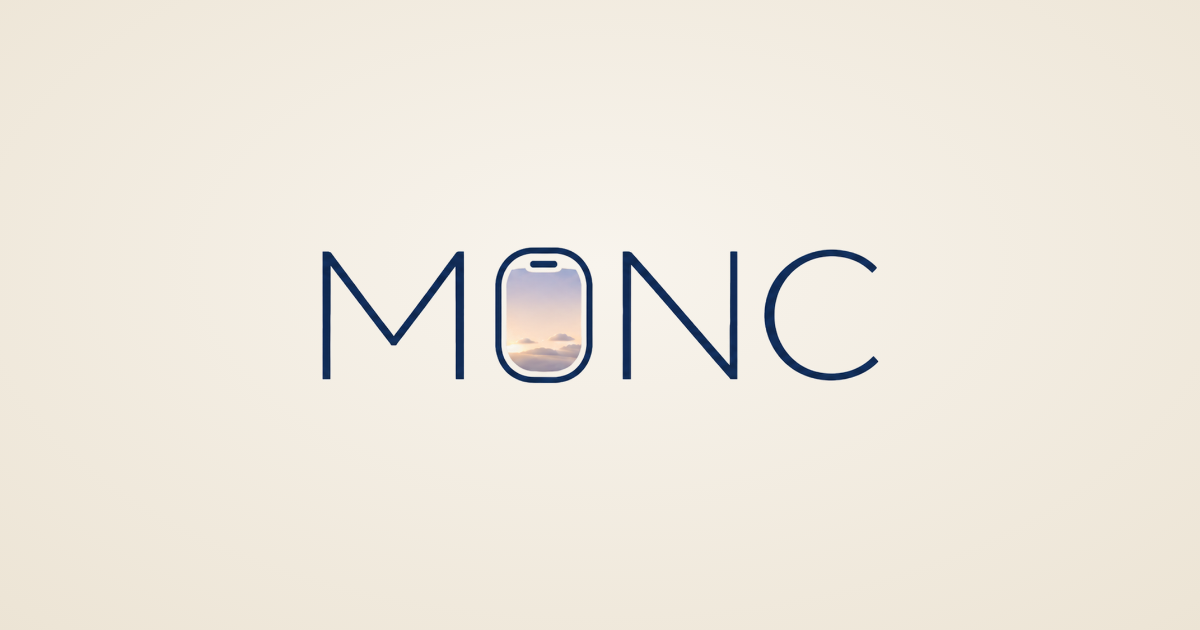
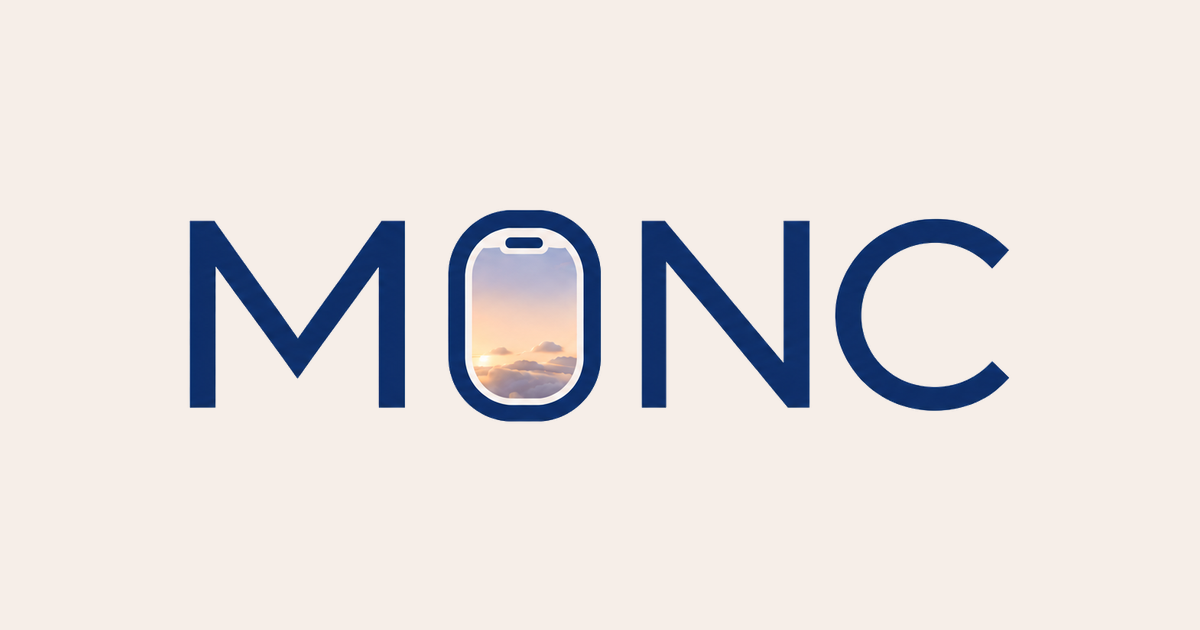
feat(브랜드): 로고 풀패키지(MONC_Logo_Full_Package)로 전면 교체 — 굵은 신규 워드마크
오너가 올린 완성 브랜드킷으로 사이트 전체 재교체. 직전 임시 워드마크가
'획이 얇아 이상하다'는 피드백 → 신규는 굵고 또렷한 MONC(O=노을 창문).

- 워드마크(네비·푸터·회원카드): assets/web/monc-logo-transparent-640.webp (13KB)
- 파비콘 15p: 패키지 favicon 세트 + mask-icon(safari-pinned-tab) + theme-color(#102B56)
  + 패키지 site.webmanifest(192/512/maskable) — 오너 favicon-head 스니펫 방식 그대로
- OG 공유 카드: 완성본 monc-og-image-1200x630.png로 교체(직접 생성본 폐기)
- 대체된 임시 images/MONC_logo_package/ 및 루트 site.webmanifest 제거

Claude-Session: https://claude.ai/code/session_017DQZQdJTuHGXiTtHNJVSGg

Changed region(s): [[0.1542, 0.3317, 0.8633, 0.6937]]

diff --git a/apply.html b/apply.html
@@ -15,11 +15,13 @@
 </script>
 <meta name="description" content="MONC 2주 면접 챌린지 — 원하는 챌린지를 골라 담고 한 번에 신청하세요.">
 <!-- 파비콘 -->
-<link rel="icon" href="images/MONC_logo_package/favicon.ico" sizes="any">
-<link rel="icon" type="image/png" sizes="16x16" href="images/MONC_logo_package/favicon-16x16.png">
-<link rel="icon" type="image/png" sizes="32x32" href="images/MONC_logo_package/favicon-32x32.png">
-<link rel="apple-touch-icon" href="images/MONC_logo_package/favicon-256x256.png">
-<link rel="manifest" href="site.webmanifest">
+<link rel="icon" href="images/MONC_Logo_Full_Package/assets/favicon/favicon.ico" sizes="any">
+<link rel="icon" type="image/png" sizes="16x16" href="images/MONC_Logo_Full_Package/assets/favicon/favicon-16x16.png">
+<link rel="icon" type="image/png" sizes="32x32" href="images/MONC_Logo_Full_Package/assets/favicon/favicon-32x32.png">
+<link rel="apple-touch-icon" sizes="180x180" href="images/MONC_Logo_Full_Package/assets/favicon/apple-touch-icon.png">
+<link rel="mask-icon" href="images/MONC_Logo_Full_Package/assets/favicon/safari-pinned-tab.svg" color="#102B56">
+<link rel="manifest" href="images/MONC_Logo_Full_Package/assets/favicon/site.webmanifest">
+<meta name="theme-color" content="#102B56">
 <link rel="stylesheet" href="tokens.css">
 <style>
   * { box-sizing: border-box; }
@@ -265,7 +267,7 @@
 
 <div class="top-bar">
   <div class="wrap top-inner">
-    <a href="index.html" class="brand"><img src="images/MONC_logo_package/MONC_wordmark_1000px_transparent.png" alt="MONC" /></a>
+    <a href="index.html" class="brand"><img src="images/MONC_Logo_Full_Package/assets/web/monc-logo-transparent-640.webp" alt="MONC" /></a>
     <a href="login.html" class="top-login">로그인 / 마이페이지</a>
   </div>
 </div>
@@ -411,7 +413,7 @@
 </main>
 
 <footer>
-  <div class="fl"><img src="images/MONC_logo_package/MONC_wordmark_1000px_transparent.png" alt="MONC" /></div>
+  <div class="fl"><img src="images/MONC_Logo_Full_Package/assets/web/monc-logo-transparent-640.webp" alt="MONC" /></div>
   <div style="font-size:12px;line-height:1.5;">
     상호: 몬크 | 대표: 권성호 박새암 | 사업자등록번호: 784-02-04020<br>
     주소: 서울특별시 금천구 디지털로9길 99, 10층 13호<br>

diff --git a/challenge-answer.html b/challenge-answer.html
@@ -17,11 +17,13 @@
   <link rel="preconnect" href="https://fonts.gstatic.com" crossorigin>
   <link href="https://fonts.googleapis.com/css2?family=Noto+Serif+KR:wght@600;700;900&family=Song+Myung&display=swap" rel="stylesheet">
   <!-- 파비콘 -->
-  <link rel="icon" href="images/MONC_logo_package/favicon.ico" sizes="any">
-  <link rel="icon" type="image/png" sizes="16x16" href="images/MONC_logo_package/favicon-16x16.png">
-  <link rel="icon" type="image/png" sizes="32x32" href="images/MONC_logo_package/favicon-32x32.png">
-  <link rel="apple-touch-icon" href="images/MONC_logo_package/favicon-256x256.png">
-  <link rel="manifest" href="site.webmanifest">
+  <link rel="icon" href="images/MONC_Logo_Full_Package/assets/favicon/favicon.ico" sizes="any">
+  <link rel="icon" type="image/png" sizes="16x16" href="images/MONC_Logo_Full_Package/assets/favicon/favicon-16x16.png">
+  <link rel="icon" type="image/png" sizes="32x32" href="images/MONC_Logo_Full_Package/assets/favicon/favicon-32x32.png">
+  <link rel="apple-touch-icon" sizes="180x180" href="images/MONC_Logo_Full_Package/assets/favicon/apple-touch-icon.png">
+  <link rel="mask-icon" href="images/MONC_Logo_Full_Package/assets/favicon/safari-pinned-tab.svg" color="#102B56">
+  <link rel="manifest" href="images/MONC_Logo_Full_Package/assets/favicon/site.webmanifest">
+  <meta name="theme-color" content="#102B56">
   <link rel="stylesheet" href="tokens.css">
   <style>
     *, *::before, *::after { box-sizing: border-box; margin: 0; padding: 0; }
@@ -144,7 +146,7 @@
 
 <nav>
   <div class="container nav-inner">
-    <a class="logo" href="index.html"><img src="images/MONC_logo_package/MONC_wordmark_1000px_transparent.png" alt="MONC" /></a>
+    <a class="logo" href="index.html"><img src="images/MONC_Logo_Full_Package/assets/web/monc-logo-transparent-640.webp" alt="MONC" /></a>
     <a class="nav-back" href="index.html">← 챌린지 목록으로</a>
   </div>
 </nav>
@@ -404,7 +406,7 @@
 
 <footer>
   <div class="container footer-inner">
-    <div class="footer-logo"><img src="images/MONC_logo_package/MONC_wordmark_1000px_transparent.png" alt="MONC" /></div>
+    <div class="footer-logo"><img src="images/MONC_Logo_Full_Package/assets/web/monc-logo-transparent-640.webp" alt="MONC" /></div>
     <div class="footer-copy" style="font-size:11px;line-height:1.5;">
       상호: 몬크 | 대표: 권성호 박새암 | 사업자등록번호: 784-02-04020<br>
       주소: 서울특별시 금천구 디지털로9길 99, 10층 13호 | 고객센터: 010-7456-5522<br>

diff --git a/challenge-expression.html b/challenge-expression.html
@@ -17,11 +17,13 @@
   <link rel="preconnect" href="https://fonts.gstatic.com" crossorigin>
   <link href="https://fonts.googleapis.com/css2?family=Noto+Serif+KR:wght@600;700;900&family=Song+Myung&display=swap" rel="stylesheet">
   <!-- 파비콘 -->
-  <link rel="icon" href="images/MONC_logo_package/favicon.ico" sizes="any">
-  <link rel="icon" type="image/png" sizes="16x16" href="images/MONC_logo_package/favicon-16x16.png">
-  <link rel="icon" type="image/png" sizes="32x32" href="images/MONC_logo_package/favicon-32x32.png">
-  <link rel="apple-touch-icon" href="images/MONC_logo_package/favicon-256x256.png">
-  <link rel="manifest" href="site.webmanifest">
+  <link rel="icon" href="images/MONC_Logo_Full_Package/assets/favicon/favicon.ico" sizes="any">
+  <link rel="icon" type="image/png" sizes="16x16" href="images/MONC_Logo_Full_Package/assets/favicon/favicon-16x16.png">
+  <link rel="icon" type="image/png" sizes="32x32" href="images/MONC_Logo_Full_Package/assets/favicon/favicon-32x32.png">
+  <link rel="apple-touch-icon" sizes="180x180" href="images/MONC_Logo_Full_Package/assets/favicon/apple-touch-icon.png">
+  <link rel="mask-icon" href="images/MONC_Logo_Full_Package/assets/favicon/safari-pinned-tab.svg" color="#102B56">
+  <link rel="manifest" href="images/MONC_Logo_Full_Package/assets/favicon/site.webmanifest">
+  <meta name="theme-color" content="#102B56">
   <link rel="stylesheet" href="tokens.css">
   <style>
     *, *::before, *::after { box-sizing: border-box; margin: 0; padding: 0; }
@@ -163,7 +165,7 @@
 
 <nav>
   <div class="container nav-inner">
-    <a class="logo" href="index.html"><img src="images/MONC_logo_package/MONC_wordmark_1000px_transparent.png" alt="MONC" /></a>
+    <a class="logo" href="index.html"><img src="images/MONC_Logo_Full_Package/assets/web/monc-logo-transparent-640.webp" alt="MONC" /></a>
     <a class="nav-back" href="index.html">← 챌린지 목록으로</a>
   </div>
 </nav>
@@ -400,7 +402,7 @@
 
 <footer>
   <div class="container footer-inner">
-    <div class="footer-logo"><img src="images/MONC_logo_package/MONC_wordmark_1000px_transparent.png" alt="MONC" /></div>
+    <div class="footer-logo"><img src="images/MONC_Logo_Full_Package/assets/web/monc-logo-transparent-640.webp" alt="MONC" /></div>
     <div class="footer-copy" style="font-size:11px;line-height:1.5;">
       상호: 몬크 | 대표: 권성호 박새암 | 사업자등록번호: 784-02-04020<br>
       주소: 서울특별시 금천구 디지털로9길 99, 10층 13호 | 고객센터: 010-7456-5522<br>

diff --git a/challenge-spinning.html b/challenge-spinning.html
@@ -17,11 +17,13 @@
   <link rel="preconnect" href="https://fonts.gstatic.com" crossorigin>
   <link href="https://fonts.googleapis.com/css2?family=Noto+Serif+KR:wght@600;700;900&family=Song+Myung&display=swap" rel="stylesheet">
   <!-- 파비콘 -->
-  <link rel="icon" href="images/MONC_logo_package/favicon.ico" sizes="any">
-  <link rel="icon" type="image/png" sizes="16x16" href="images/MONC_logo_package/favicon-16x16.png">
-  <link rel="icon" type="image/png" sizes="32x32" href="images/MONC_logo_package/favicon-32x32.png">
-  <link rel="apple-touch-icon" href="images/MONC_logo_package/favicon-256x256.png">
-  <link rel="manifest" href="site.webmanifest">
+  <link rel="icon" href="images/MONC_Logo_Full_Package/assets/favicon/favicon.ico" sizes="any">
+  <link rel="icon" type="image/png" sizes="16x16" href="images/MONC_Logo_Full_Package/assets/favicon/favicon-16x16.png">
+  <link rel="icon" type="image/png" sizes="32x32" href="images/MONC_Logo_Full_Package/assets/favicon/favicon-32x32.png">
+  <link rel="apple-touch-icon" sizes="180x180" href="images/MONC_Logo_Full_Package/assets/favicon/apple-touch-icon.png">
+  <link rel="mask-icon" href="images/MONC_Logo_Full_Package/assets/favicon/safari-pinned-tab.svg" color="#102B56">
+  <link rel="manifest" href="images/MONC_Logo_Full_Package/assets/favicon/site.webmanifest">
+  <meta name="theme-color" content="#102B56">
   <link rel="stylesheet" href="tokens.css">
   <style>
     *, *::before, *::after { box-sizing: border-box; margin: 0; padding: 0; }
@@ -144,7 +146,7 @@
 
 <nav>
   <div class="container nav-inner">
-    <a class="logo" href="index.html"><img src="images/MONC_logo_package/MONC_wordmark_1000px_transparent.png" alt="MONC" /></a>
+    <a class="logo" href="index.html"><img src="images/MONC_Logo_Full_Package/assets/web/monc-logo-transparent-640.webp" alt="MONC" /></a>
     <a class="nav-back" href="index.html">← 챌린지 목록으로</a>
   </div>
 </nav>
@@ -491,7 +493,7 @@
 
 <footer>
   <div class="container footer-inner">
-    <div class="footer-logo"><img src="images/MONC_logo_package/MONC_wordmark_1000px_transparent.png" alt="MONC" /></div>
+    <div class="footer-logo"><img src="images/MONC_Logo_Full_Package/assets/web/monc-logo-transparent-640.webp" alt="MONC" /></div>
     <div class="footer-copy" style="font-size:11px;line-height:1.5;">
       상호: 몬크 | 대표: 권성호 박새암 | 사업자등록번호: 784-02-04020<br>
       주소: 서울특별시 금천구 디지털로9길 99, 10층 13호 | 고객센터: 010-7456-5522<br>

diff --git a/challenge-voice.html b/challenge-voice.html
@@ -17,11 +17,13 @@
   <link rel="preconnect" href="https://fonts.gstatic.com" crossorigin>
   <link href="https://fonts.googleapis.com/css2?family=Noto+Serif+KR:wght@600;700;900&family=Song+Myung&display=swap" rel="stylesheet">
   <!-- 파비콘 -->
-  <link rel="icon" href="images/MONC_logo_package/favicon.ico" sizes="any">
-  <link rel="icon" type="image/png" sizes="16x16" href="images/MONC_logo_package/favicon-16x16.png">
-  <link rel="icon" type="image/png" sizes="32x32" href="images/MONC_logo_package/favicon-32x32.png">
-  <link rel="apple-touch-icon" href="images/MONC_logo_package/favicon-256x256.png">
-  <link rel="manifest" href="site.webmanifest">
+  <link rel="icon" href="images/MONC_Logo_Full_Package/assets/favicon/favicon.ico" sizes="any">
+  <link rel="icon" type="image/png" sizes="16x16" href="images/MONC_Logo_Full_Package/assets/favicon/favicon-16x16.png">
+  <link rel="icon" type="image/png" sizes="32x32" href="images/MONC_Logo_Full_Package/assets/favicon/favicon-32x32.png">
+  <link rel="apple-touch-icon" sizes="180x180" href="images/MONC_Logo_Full_Package/assets/favicon/apple-touch-icon.png">
+  <link rel="mask-icon" href="images/MONC_Logo_Full_Package/assets/favicon/safari-pinned-tab.svg" color="#102B56">
+  <link rel="manifest" href="images/MONC_Logo_Full_Package/assets/favicon/site.webmanifest">
+  <meta name="theme-color" content="#102B56">
   <link rel="stylesheet" href="tokens.css">
   <style>
     *, *::before, *::after { box-sizing: border-box; margin: 0; padding: 0; }
@@ -144,7 +146,7 @@
 
 <nav>
   <div class="container nav-inner">
-    <a class="logo" href="index.html"><img src="images/MONC_logo_package/MONC_wordmark_1000px_transparent.png" alt="MONC" /></a>
+    <a class="logo" href="index.html"><img src="images/MONC_Logo_Full_Package/assets/web/monc-logo-transparent-640.webp" alt="MONC" /></a>
     <a class="nav-back" href="index.html">← 챌린지 목록으로</a>
   </div>
 </nav>
@@ -521,7 +523,7 @@
 
 <footer>
   <div class="container footer-inner">
-    <div class="footer-logo"><img src="images/MONC_logo_package/MONC_wordmark_1000px_transparent.png" alt="MONC" /></div>
+    <div class="footer-logo"><img src="images/MONC_Logo_Full_Package/assets/web/monc-logo-transparent-640.webp" alt="MONC" /></div>
     <div class="footer-copy" style="font-size:11px;line-height:1.5;">
       상호: 몬크 | 대표: 권성호 박새암 | 사업자등록번호: 784-02-04020<br>
       주소: 서울특별시 금천구 디지털로9길 99, 10층 13호 | 고객센터: 010-7456-5522<br>

diff --git a/index.html b/index.html
@@ -31,11 +31,13 @@
   <meta name="twitter:description" content="목소리·이미지·말투·답변까지, 승무원 합격의 본질을 전문가&amp;챌린저들과 함께 만들어갑니다." />
   <meta name="twitter:image"       content="https://monc.ai.kr/images/og-image.png" />
   <!-- 파비콘 -->
-  <link rel="icon" href="images/MONC_logo_package/favicon.ico" sizes="any">
-  <link rel="icon" type="image/png" sizes="16x16" href="images/MONC_logo_package/favicon-16x16.png">
-  <link rel="icon" type="image/png" sizes="32x32" href="images/MONC_logo_package/favicon-32x32.png">
-  <link rel="apple-touch-icon" href="images/MONC_logo_package/favicon-256x256.png">
-  <link rel="manifest" href="site.webmanifest">
+  <link rel="icon" href="images/MONC_Logo_Full_Package/assets/favicon/favicon.ico" sizes="any">
+  <link rel="icon" type="image/png" sizes="16x16" href="images/MONC_Logo_Full_Package/assets/favicon/favicon-16x16.png">
+  <link rel="icon" type="image/png" sizes="32x32" href="images/MONC_Logo_Full_Package/assets/favicon/favicon-32x32.png">
+  <link rel="apple-touch-icon" sizes="180x180" href="images/MONC_Logo_Full_Package/assets/favicon/apple-touch-icon.png">
+  <link rel="mask-icon" href="images/MONC_Logo_Full_Package/assets/favicon/safari-pinned-tab.svg" color="#102B56">
+  <link rel="manifest" href="images/MONC_Logo_Full_Package/assets/favicon/site.webmanifest">
+  <meta name="theme-color" content="#102B56">
   <link rel="stylesheet" href="tokens.css">
   <!-- 세리프 포인트(Finder 결과 챌린지명 · 마지막 CTA '나도 해볼까?') — Noto Serif KR 600/700/italic -->
   <link rel="preconnect" href="https://fonts.googleapis.com">
@@ -71,7 +73,7 @@
 <!-- NAV -->
 <nav id="navbar">
   <div class="container nav-inner">
-    <a class="logo" href="#home"><img src="images/MONC_logo_package/MONC_wordmark_1000px_transparent.png" alt="MONC" /></a>
+    <a class="logo" href="#home"><img src="images/MONC_Logo_Full_Package/assets/web/monc-logo-transparent-640.webp" alt="MONC" /></a>
     <ul class="nav-links">
       <li><a class="nav-quiz-link" href="#blind-quiz">면접관 체험<span class="nav-quiz-dot" aria-hidden="true"></span></a></li>
       <li><a href="#challenges">챌린지</a></li>
@@ -950,7 +952,7 @@
 <!-- FOOTER -->
 <footer>
   <div class="container footer-inner">
-    <div class="footer-logo"><img src="images/MONC_logo_package/MONC_wordmark_1000px_transparent.png" alt="MONC" /></div>
+    <div class="footer-logo"><img src="images/MONC_Logo_Full_Package/assets/web/monc-logo-transparent-640.webp" alt="MONC" /></div>
     <div class="footer-links">
       <a href="#challenges">서비스 소개</a>
       <a href="terms.html">이용약관</a>

diff --git a/researchers.html b/researchers.html
@@ -6,11 +6,13 @@
   <title>연구진 소개 — MONC 몬크</title>
   <meta name="description" content="현장 경험이 풍부한 MONC 전문 연구원들이 직접 챌린지를 설계하고 피드백을 드립니다." />
   <!-- 파비콘 -->
-  <link rel="icon" href="images/MONC_logo_package/favicon.ico" sizes="any">
-  <link rel="icon" type="image/png" sizes="16x16" href="images/MONC_logo_package/favicon-16x16.png">
-  <link rel="icon" type="image/png" sizes="32x32" href="images/MONC_logo_package/favicon-32x32.png">
-  <link rel="apple-touch-icon" href="images/MONC_logo_package/favicon-256x256.png">
-  <link rel="manifest" href="site.webmanifest">
+  <link rel="icon" href="images/MONC_Logo_Full_Package/assets/favicon/favicon.ico" sizes="any">
+  <link rel="icon" type="image/png" sizes="16x16" href="images/MONC_Logo_Full_Package/assets/favicon/favicon-16x16.png">
+  <link rel="icon" type="image/png" sizes="32x32" href="images/MONC_Logo_Full_Package/assets/favicon/favicon-32x32.png">
+  <link rel="apple-touch-icon" sizes="180x180" href="images/MONC_Logo_Full_Package/assets/favicon/apple-touch-icon.png">
+  <link rel="mask-icon" href="images/MONC_Logo_Full_Package/assets/favicon/safari-pinned-tab.svg" color="#102B56">
+  <link rel="manifest" href="images/MONC_Logo_Full_Package/assets/favicon/site.webmanifest">
+  <meta name="theme-color" content="#102B56">
   <link rel="stylesheet" href="tokens.css">
   <!-- 제목 명조 포인트 — Noto Serif KR 600/700/900 -->
   <link rel="preconnect" href="https://fonts.googleapis.com">
@@ -284,7 +286,7 @@
 
 <nav id="navbar">
   <div class="container nav-inner">
-    <a class="logo" href="index.html"><img src="images/MONC_logo_package/MONC_wordmark_1000px_transparent.png" alt="MONC" /></a>
+    <a class="logo" href="index.html"><img src="images/MONC_Logo_Full_Package/assets/web/monc-logo-transparent-640.webp" alt="MONC" /></a>
     <ul class="nav-links">
       <li><a class="nav-quiz-link" href="index.html#blind-quiz">면접관 체험<span class="nav-quiz-dot" aria-hidden="true"></span></a></li>
       <li><a href="index.html#challenges">챌린지</a></li>
@@ -341,7 +343,7 @@
 
 <footer>
   <div class="container footer-inner">
-    <div class="footer-logo"><img src="images/MONC_logo_package/MONC_wordmark_1000px_transparent.png" alt="MONC" /></div>
+    <div class="footer-logo"><img src="images/MONC_Logo_Full_Package/assets/web/monc-logo-transparent-640.webp" alt="MONC" /></div>
     <div class="footer-links">
       <a href="index.html#challenges">서비스 소개</a>
       <a href="terms.html">이용약관</a>

diff --git a/admin.html b/admin.html
@@ -5,11 +5,13 @@
   <meta name="viewport" content="width=device-width, initial-scale=1.0" />
   <title>MONC 관리자</title>
   <!-- 파비콘 -->
-  <link rel="icon" href="images/MONC_logo_package/favicon.ico" sizes="any">
-  <link rel="icon" type="image/png" sizes="16x16" href="images/MONC_logo_package/favicon-16x16.png">
-  <link rel="icon" type="image/png" sizes="32x32" href="images/MONC_logo_package/favicon-32x32.png">
-  <link rel="apple-touch-icon" href="images/MONC_logo_package/favicon-256x256.png">
-  <link rel="manifest" href="site.webmanifest">
+  <link rel="icon" href="images/MONC_Logo_Full_Package/assets/favicon/favicon.ico" sizes="any">
+  <link rel="icon" type="image/png" sizes="16x16" href="images/MONC_Logo_Full_Package/assets/favicon/favicon-16x16.png">
+  <link rel="icon" type="image/png" sizes="32x32" href="images/MONC_Logo_Full_Package/assets/favicon/favicon-32x32.png">
+  <link rel="apple-touch-icon" sizes="180x180" href="images/MONC_Logo_Full_Package/assets/favicon/apple-touch-icon.png">
+  <link rel="mask-icon" href="images/MONC_Logo_Full_Package/assets/favicon/safari-pinned-tab.svg" color="#102B56">
+  <link rel="manifest" href="images/MONC_Logo_Full_Package/assets/favicon/site.webmanifest">
+  <meta name="theme-color" content="#102B56">
   <link rel="stylesheet" href="tokens.css">
   <style>
     *, *::before, *::after { box-sizing: border-box; margin: 0; padding: 0; }
@@ -196,7 +198,7 @@
 </head>
 <body>
   <div class="topbar">
-    <div class="brand"><a href="index.html" class="brand-link" title="홈으로"><img src="images/MONC_logo_package/MONC_wordmark_1000px_transparent.png" alt="MONC" /></a> <span class="badge">관리자</span></div>
+    <div class="brand"><a href="index.html" class="brand-link" title="홈으로"><img src="images/MONC_Logo_Full_Package/assets/web/monc-logo-transparent-640.webp" alt="MONC" /></a> <span class="badge">관리자</span></div>
     <button class="logout" id="logoutBtn">로그아웃</button>
   </div>
 

diff --git a/login.html b/login.html
@@ -14,11 +14,13 @@
     })(window, document, "clarity", "script", "xlu6nkv2uh");
   </script>
   <!-- 파비콘 -->
-  <link rel="icon" href="images/MONC_logo_package/favicon.ico" sizes="any">
-  <link rel="icon" type="image/png" sizes="16x16" href="images/MONC_logo_package/favicon-16x16.png">
-  <link rel="icon" type="image/png" sizes="32x32" href="images/MONC_logo_package/favicon-32x32.png">
-  <link rel="apple-touch-icon" href="images/MONC_logo_package/favicon-256x256.png">
-  <link rel="manifest" href="site.webmanifest">
+  <link rel="icon" href="images/MONC_Logo_Full_Package/assets/favicon/favicon.ico" sizes="any">
+  <link rel="icon" type="image/png" sizes="16x16" href="images/MONC_Logo_Full_Package/assets/favicon/favicon-16x16.png">
+  <link rel="icon" type="image/png" sizes="32x32" href="images/MONC_Logo_Full_Package/assets/favicon/favicon-32x32.png">
+  <link rel="apple-touch-icon" sizes="180x180" href="images/MONC_Logo_Full_Package/assets/favicon/apple-touch-icon.png">
+  <link rel="mask-icon" href="images/MONC_Logo_Full_Package/assets/favicon/safari-pinned-tab.svg" color="#102B56">
+  <link rel="manifest" href="images/MONC_Logo_Full_Package/assets/favicon/site.webmanifest">
+  <meta name="theme-color" content="#102B56">
   <link rel="stylesheet" href="tokens.css">
   <style>
     *, *::before, *::after { box-sizing: border-box; margin: 0; padding: 0; }
@@ -85,7 +87,7 @@
 </head>
 <body>
   <div class="card">
-    <div class="logo"><img src="images/MONC_logo_package/MONC_wordmark_1000px_transparent.png" alt="MONC" /></div>
+    <div class="logo"><img src="images/MONC_Logo_Full_Package/assets/web/monc-logo-transparent-640.webp" alt="MONC" /></div>
     <p class="sub">2주 챌린지 결과 확인은<br>구글 계정으로 로그인하세요.</p>
     <ul class="perks">
       <li>

diff --git a/mypage.html b/mypage.html
@@ -5,11 +5,13 @@
   <meta name="viewport" content="width=device-width, initial-scale=1.0" />
   <title>MONC 마이페이지</title>
   <!-- 파비콘 -->
-  <link rel="icon" href="images/MONC_logo_package/favicon.ico" sizes="any">
-  <link rel="icon" type="image/png" sizes="16x16" href="images/MONC_logo_package/favicon-16x16.png">
-  <link rel="icon" type="image/png" sizes="32x32" href="images/MONC_logo_package/favicon-32x32.png">
-  <link rel="apple-touch-icon" href="images/MONC_logo_package/favicon-256x256.png">
-  <link rel="manifest" href="site.webmanifest">
+  <link rel="icon" href="images/MONC_Logo_Full_Package/assets/favicon/favicon.ico" sizes="any">
+  <link rel="icon" type="image/png" sizes="16x16" href="images/MONC_Logo_Full_Package/assets/favicon/favicon-16x16.png">
+  <link rel="icon" type="image/png" sizes="32x32" href="images/MONC_Logo_Full_Package/assets/favicon/favicon-32x32.png">
+  <link rel="apple-touch-icon" sizes="180x180" href="images/MONC_Logo_Full_Package/assets/favicon/apple-touch-icon.png">
+  <link rel="mask-icon" href="images/MONC_Logo_Full_Package/assets/favicon/safari-pinned-tab.svg" color="#102B56">
+  <link rel="manifest" href="images/MONC_Logo_Full_Package/assets/favicon/site.webmanifest">
+  <meta name="theme-color" content="#102B56">
   <link rel="stylesheet" href="tokens.css">
   <style>
     *, *::before, *::after { box-sizing: border-box; margin: 0; padding: 0; }
@@ -141,7 +143,7 @@
 <body>
   <div class="wrap">
     <div class="topbar">
-      <div class="brand"><a href="index.html" class="brand-link" title="홈으로"><img src="images/MONC_logo_package/MONC_wordmark_1000px_transparent.png" alt="MONC" /></a></div>
+      <div class="brand"><a href="index.html" class="brand-link" title="홈으로"><img src="images/MONC_Logo_Full_Package/assets/web/monc-logo-transparent-640.webp" alt="MONC" /></a></div>
       <div style="display:flex; align-items:center;">
         <a href="admin.html" class="admin-link" id="adminLink" style="display:none;">관리자 페이지</a>
         <button class="logout" id="logoutBtn">로그아웃</button>

diff --git a/onboarding.html b/onboarding.html
@@ -5,11 +5,13 @@
   <meta name="viewport" content="width=device-width, initial-scale=1.0" />
   <title>프로필 완성 · MONC</title>
   <!-- 파비콘 -->
-  <link rel="icon" href="images/MONC_logo_package/favicon.ico" sizes="any">
-  <link rel="icon" type="image/png" sizes="16x16" href="images/MONC_logo_package/favicon-16x16.png">
-  <link rel="icon" type="image/png" sizes="32x32" href="images/MONC_logo_package/favicon-32x32.png">
-  <link rel="apple-touch-icon" href="images/MONC_logo_package/favicon-256x256.png">
-  <link rel="manifest" href="site.webmanifest">
+  <link rel="icon" href="images/MONC_Logo_Full_Package/assets/favicon/favicon.ico" sizes="any">
+  <link rel="icon" type="image/png" sizes="16x16" href="images/MONC_Logo_Full_Package/assets/favicon/favicon-16x16.png">
+  <link rel="icon" type="image/png" sizes="32x32" href="images/MONC_Logo_Full_Package/assets/favicon/favicon-32x32.png">
+  <link rel="apple-touch-icon" sizes="180x180" href="images/MONC_Logo_Full_Package/assets/favicon/apple-touch-icon.png">
+  <link rel="mask-icon" href="images/MONC_Logo_Full_Package/assets/favicon/safari-pinned-tab.svg" color="#102B56">
+  <link rel="manifest" href="images/MONC_Logo_Full_Package/assets/favicon/site.webmanifest">
+  <meta name="theme-color" content="#102B56">
   <link rel="stylesheet" href="tokens.css">
   <style>
     *, *::before, *::after { box-sizing: border-box; margin: 0; padding: 0; }
@@ -51,7 +53,7 @@
 </head>
 <body>
   <div class="card">
-    <div class="logo"><img src="images/MONC_logo_package/MONC_wordmark_1000px_transparent.png" alt="MONC" /></div>
+    <div class="logo"><img src="images/MONC_Logo_Full_Package/assets/web/monc-logo-transparent-640.webp" alt="MONC" /></div>
     <h1>환영해요! 프로필을 완성해주세요</h1>
     <p class="sub">신청과 2주 성장 기록을 매끄럽게 연결하려면<br>몇 가지만 알려주세요.</p>
 

diff --git a/reviews.html b/reviews.html
@@ -18,11 +18,13 @@
   <link rel="preconnect" href="https://fonts.gstatic.com" crossorigin>
   <link href="https://fonts.googleapis.com/css2?family=Noto+Serif+KR:wght@600;700;900&family=Song+Myung&display=swap" rel="stylesheet">
   <!-- 파비콘 -->
-  <link rel="icon" href="images/MONC_logo_package/favicon.ico" sizes="any">
-  <link rel="icon" type="image/png" sizes="16x16" href="images/MONC_logo_package/favicon-16x16.png">
-  <link rel="icon" type="image/png" sizes="32x32" href="images/MONC_logo_package/favicon-32x32.png">
-  <link rel="apple-touch-icon" href="images/MONC_logo_package/favicon-256x256.png">
-  <link rel="manifest" href="site.webmanifest">
+  <link rel="icon" href="images/MONC_Logo_Full_Package/assets/favicon/favicon.ico" sizes="any">
+  <link rel="icon" type="image/png" sizes="16x16" href="images/MONC_Logo_Full_Package/assets/favicon/favicon-16x16.png">
+  <link rel="icon" type="image/png" sizes="32x32" href="images/MONC_Logo_Full_Package/assets/favicon/favicon-32x32.png">
+  <link rel="apple-touch-icon" sizes="180x180" href="images/MONC_Logo_Full_Package/assets/favicon/apple-touch-icon.png">
+  <link rel="mask-icon" href="images/MONC_Logo_Full_Package/assets/favicon/safari-pinned-tab.svg" color="#102B56">
+  <link rel="manifest" href="images/MONC_Logo_Full_Package/assets/favicon/site.webmanifest">
+  <meta name="theme-color" content="#102B56">
   <link rel="stylesheet" href="tokens.css">
   <style>
     *, *::before, *::after { box-sizing: border-box; margin: 0; padding: 0; }
@@ -122,7 +124,7 @@
 <body>
   <nav>
     <div class="nav-inner">
-      <a href="index.html" class="logo"><img src="images/MONC_logo_package/MONC_wordmark_1000px_transparent.png" alt="MONC" /></a>
+      <a href="index.html" class="logo"><img src="images/MONC_Logo_Full_Package/assets/web/monc-logo-transparent-640.webp" alt="MONC" /></a>
       <a href="index.html" class="nav-back">← 홈으로</a>
     </div>
   </nav>